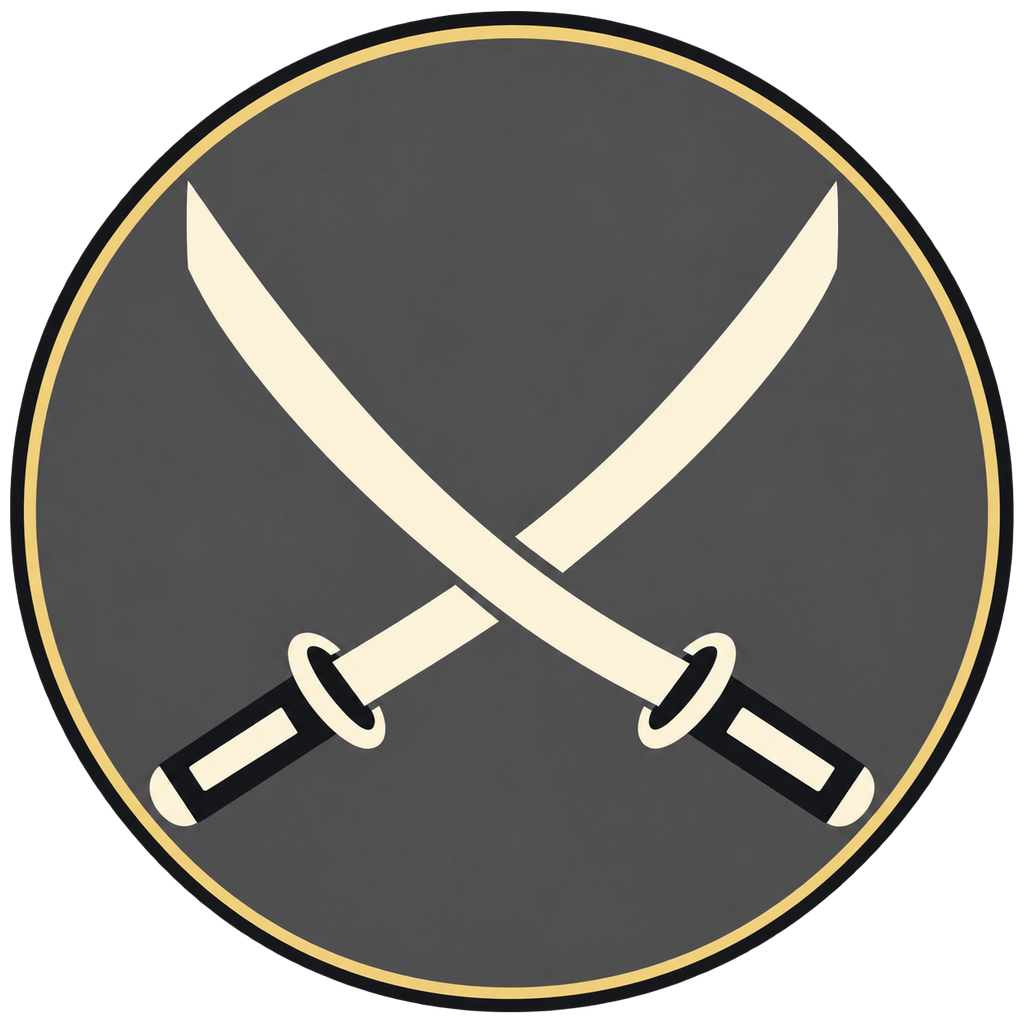
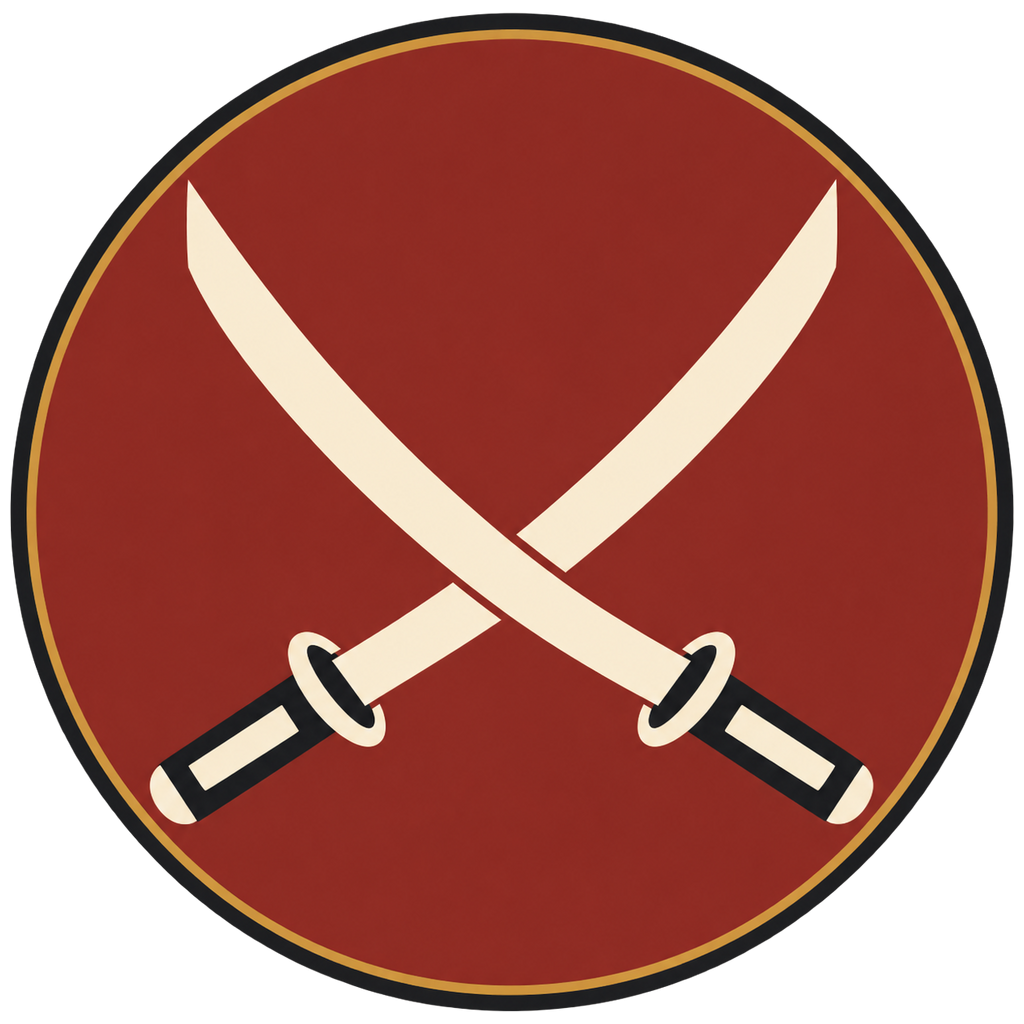
Restore the red engaged badge at user request

diff --git a/素材/状态图标/v1/README.md b/素材/状态图标/v1/README.md
@@ -1,6 +1,6 @@
 # 状态图标 v1 · 交戦圆章改稿
 
-本轮只制作 **交戦 / `engaged`**。本次改为 **石墨灰实心圆章＋象牙色交叉太刀＋浅金外圈**，避免与武田红底色接近，同时利用亮色外圈在炭灰底上保持轮廓。圆章尽量填满 **100 × 100** 的显示区域，外侧透明；尚未接入 TTS Global Lua。
+本轮只制作 **交戦 / `engaged`**。本次按用户选择，恢复之前的 **暗朱红实心圆章＋象牙色交叉太刀**。三份图标导出恢复为 revision 2 的红色版本，同时保留武田红棋面和八色标题栏预览，便于检查不同底色上的效果。圆章尽量填满 **100 × 100** 的显示区域，外侧透明；尚未接入 TTS Global Lua。
 
 [查看总览](./总览.jpg) · [100 × 100 PNG](./engaged-100.png) · [512 PNG](./engaged.png) · [1024 源图](./源图/engaged-1024.png) · [manifest.json](./manifest.json)
 
@@ -8,9 +8,9 @@
 
 | 文件 | 像素尺寸 | 透明留白（左 / 上 / 右 / 下） | 用途 |
 | --- | --- | --- | --- |
-| `engaged.png` | 512 × 512 | 3 / 3 / 3 / 3 px | 保留稳定接入路径的透明 RGBA PNG |
+| `engaged.png` | 512 × 512 | 3 / 4 / 3 / 4 px | 保留稳定接入路径的透明 RGBA PNG |
 | `engaged-100.png` | 100 × 100 | 0 / 0 / 0 / 0 px | 按建议显示尺寸直接导出的 PNG |
-| `源图/engaged-1024.png` | 1024 × 1024 | 10 / 11 / 10 / 11 px | 高分辨率透明版本，便于后续调整 |
+| `源图/engaged-1024.png` | 1024 × 1024 | 10 / 12 / 10 / 12 px | 高分辨率透明版本，便于后续调整 |
 
 留白按 alpha > 0 的像素外接矩形测量，包含低透明度抗锯齿边缘。100 px 版本的抗锯齿像素延伸到画布边界，主体圆边仍留约 1 px 余量，四角透明。圆章内部为实心底色，圆外透明；没有文字。建议保持原有颜色，不对整张图片乘黑色或降低透明度。
 
@@ -28,12 +28,12 @@
 - [标题栏原尺寸细节](./预览/engaged_标题栏细节.jpg)
 - [棋面缩至 300 px 的检查图](./预览/engaged_缩远检查.jpg)
 
-炭灰示意采用 `#24262B`，用于检查图标对比与标题留位，**不是 TTS 实机截图，也不是已确认的背面贴图**。总览额外展示 100 px、64 px 的独立图标。棋面缩至 300 px 时，圆章仍占 25 px，可识别石墨灰圆形和象牙色交叉刀形，刀柄及刀镡细节会减弱。最终显示效果仍需在 TTS 实际缩放和倾斜视角下验收。
+炭灰示意采用 `#24262B`，用于检查图标对比与标题留位，**不是 TTS 实机截图，也不是已确认的背面贴图**。总览额外展示 100 px、64 px 的独立图标。棋面缩至 300 px 时，圆章仍占 25 px，可识别朱红圆形和象牙色交叉刀形，刀柄及刀镡细节会减弱。最终显示效果仍需在 TTS 实际缩放和倾斜视角下验收。
 
 ## 代码侧交接
 
 - 固定标识：`engaged`；建议引用 `manifest.json` 中的路径、像素尺寸与定位。
-- 本次为 `revision: 3`，更新圆章配色；沿用 revision 2 的 100 × 100 px、左上 `(20,56)`、中心 `(70,106)`。代码侧替换图片并更新资源版本／缓存即可；若仍使用 revision 1，则按当前 manifest 同步尺寸与定位。
+- 本次为 `revision: 4`，按用户选择恢复暗朱红圆章，三份图标导出与 revision 2（提交 `abadd9f`）一致；沿用 100 × 100 px、左上 `(20,56)`、中心 `(70,106)`。代码侧替换图片并更新资源版本／缓存即可；若仍使用 revision 1，则按当前 manifest 同步尺寸与定位。
 - `cloud_url` 当前为空。仓库预览链接不代表已配置或已验证的 TTS 图片资源；需要代码侧选定图片托管、登记资源并验证加载。
 - 由代码侧实现状态保存／恢复、显示／隐藏和触发方式；本稿不提供自动判定交战或回合清除规则。
 - 1200 棋面像素坐标需映射到实际物件坐标／UI。已有正背面渲染方式、厚度偏移及资源登记顺序请按代码侧交接保留，不能直接把本文件的像素数当作 TTS 世界坐标。
